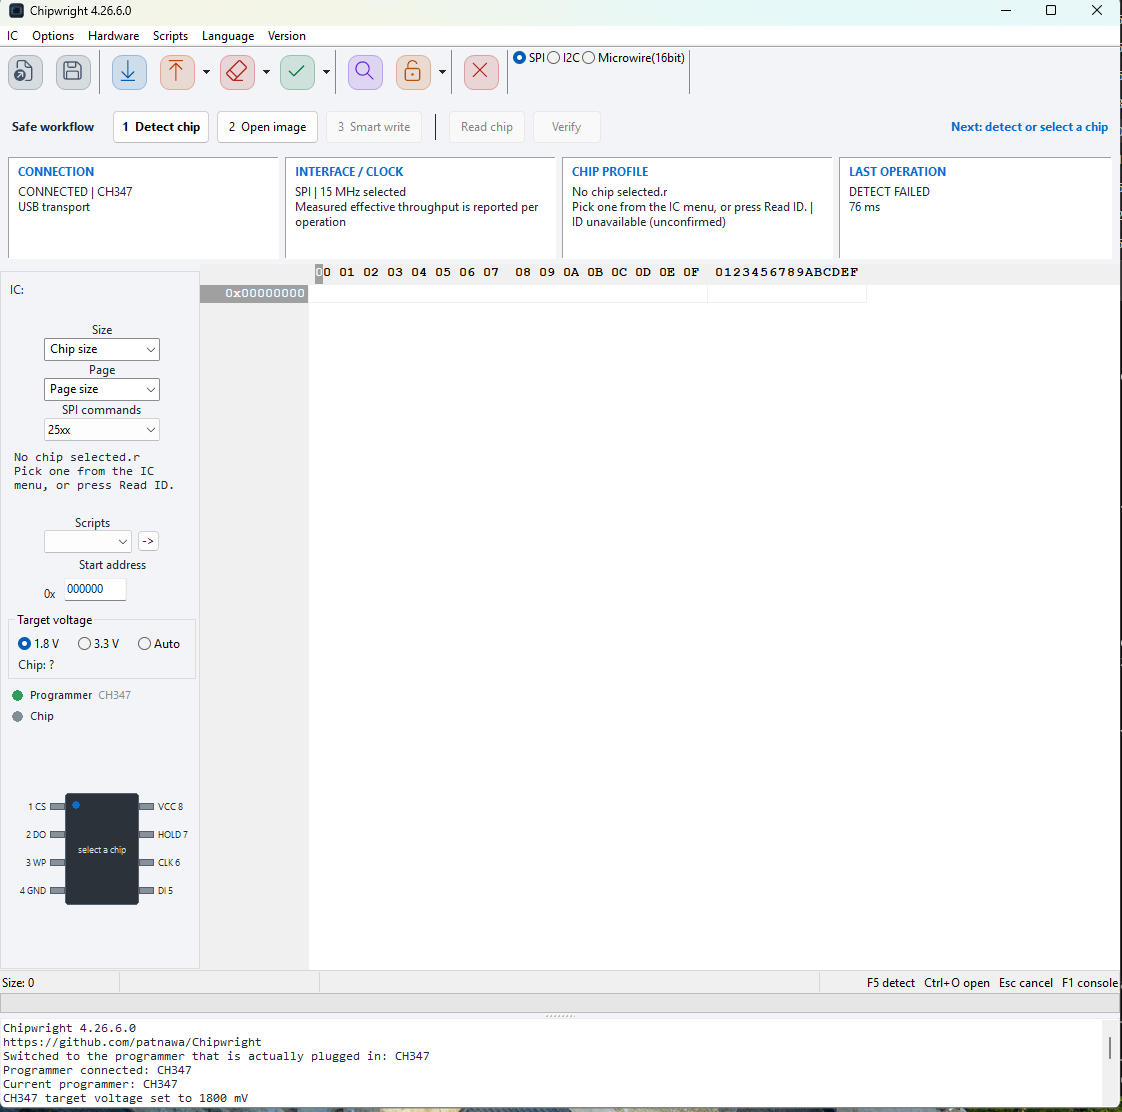
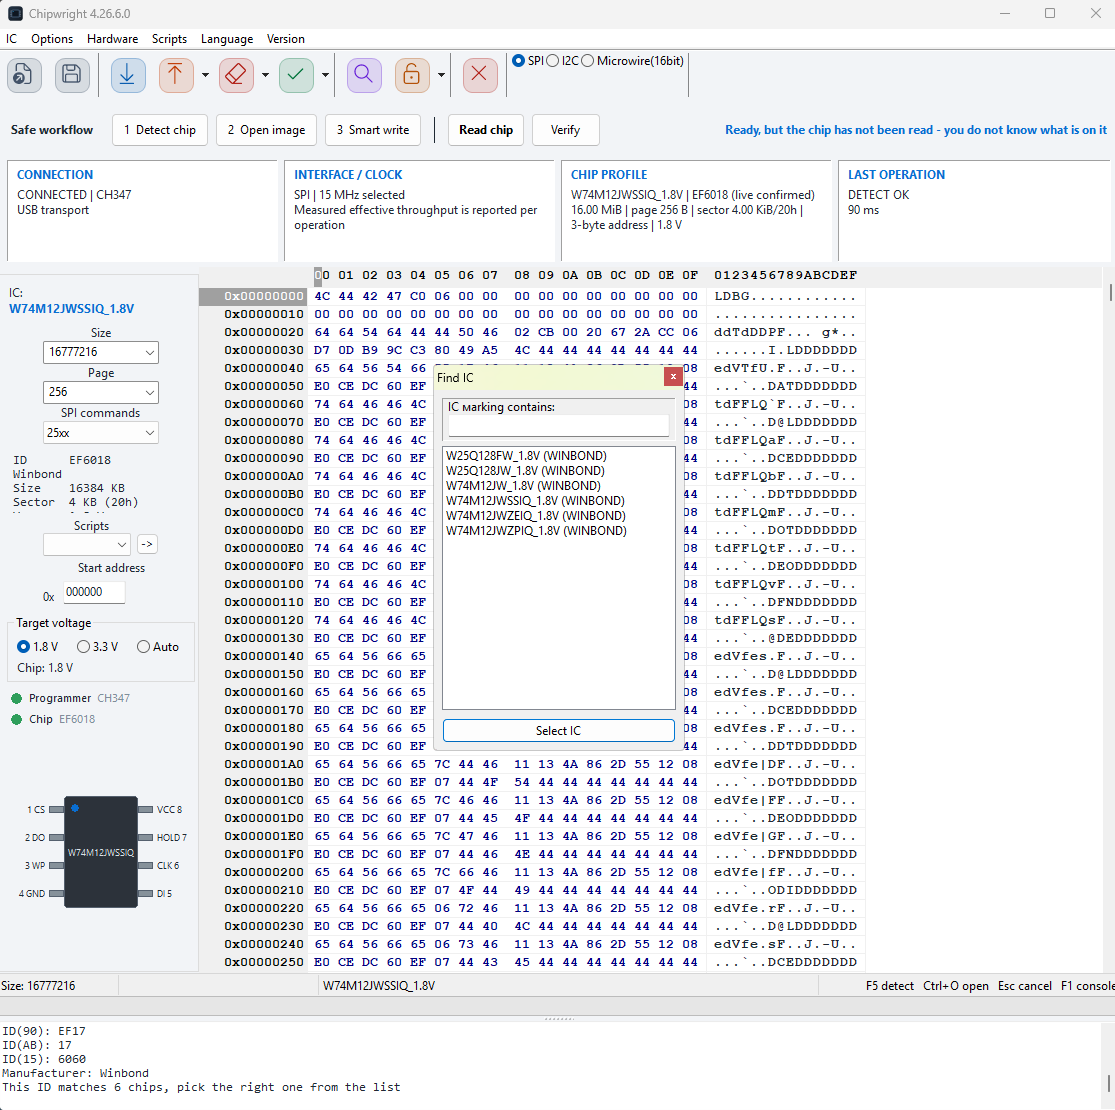
README: screenshot of a live read instead of an empty window
The previous image showed DETECT FAILED and an empty socket, which says
nothing about what the program does. This one shows a Winbond
W74M12JWSSIQ identified as EF6018, the chip profile filled in at 16 MiB
and 1.8 V, the target rail matched to it, both status lamps green and real
data in the hex view.

diff --git a/README.md b/README.md
@@ -18,7 +18,9 @@ SPI NOR · SPI NAND · I²C EEPROM · Microwire — across nine programmers.
 ---
 
 <div align="center">
-<img src="assets/chipwright-main.png" alt="Chipwright main window" width="820">
+<img src="assets/chipwright-main.png" alt="Chipwright reading a Winbond W74M12JWSSIQ over a CH347" width="880">
+<br>
+<sub>A Winbond <code>W74M12JWSSIQ</code> identified live as <code>EF6018</code> — 16 MiB, 1.8 V — with the target rail already matched to it.</sub>
 </div>
 
 ---
